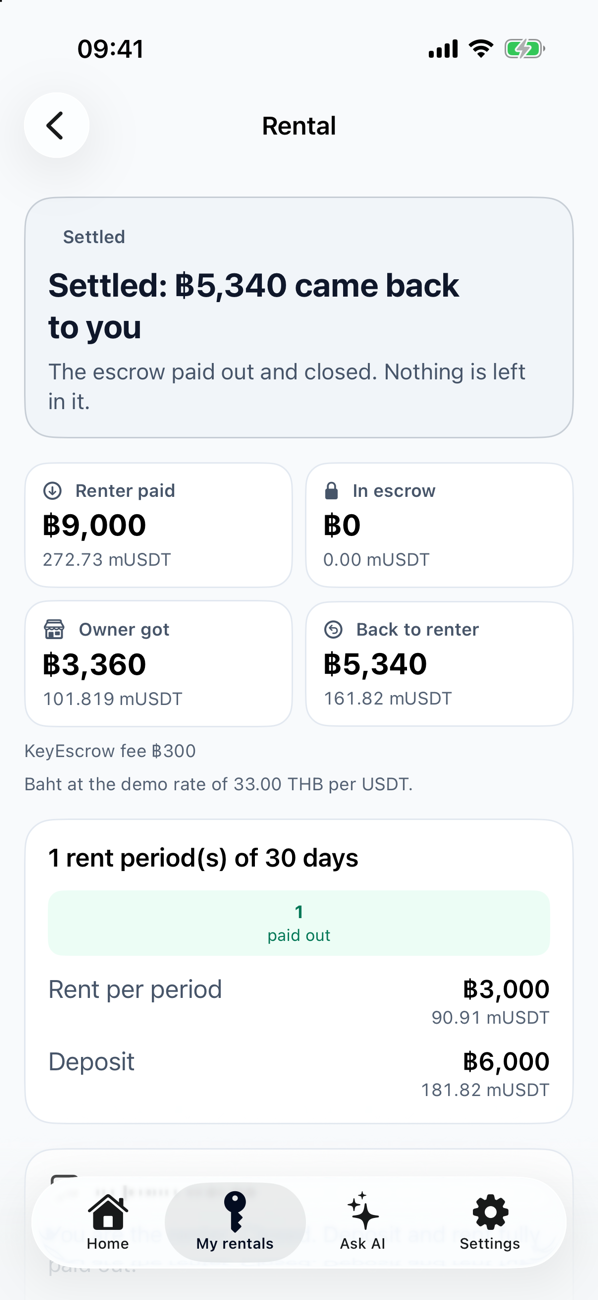
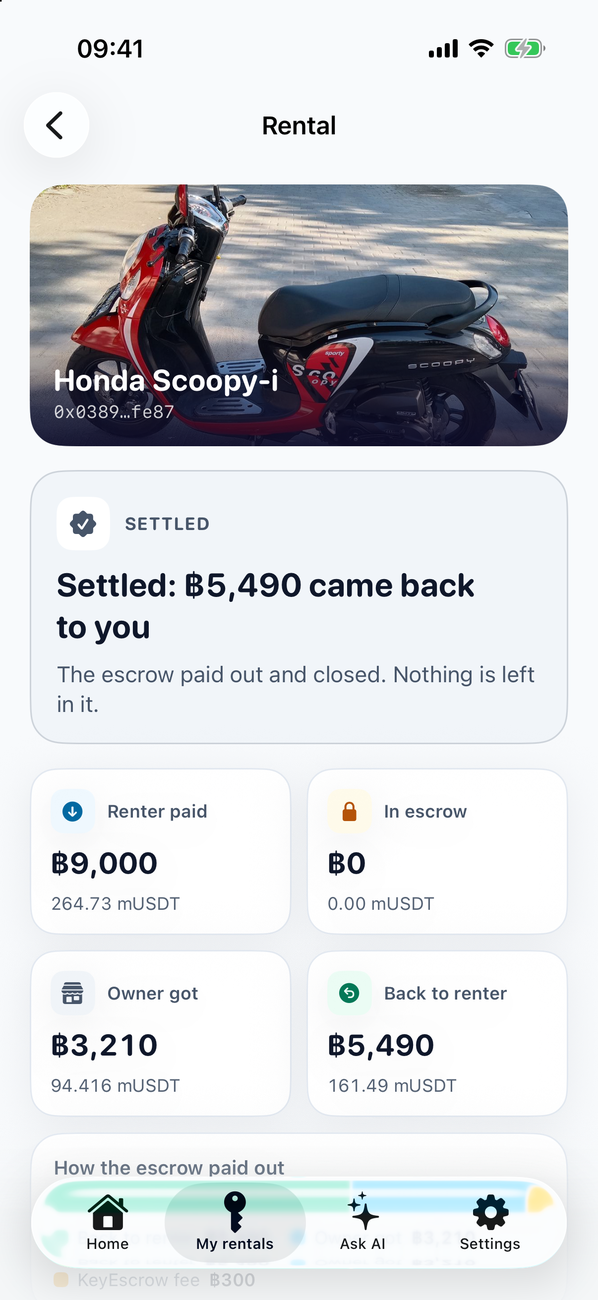
ios: README, REPORT and screenshots for the design pass
README: the new screens per tab, a Photos section (eleven Wikimedia Commons photos, how they are
mapped and credited, what is a stand-in), the launch arguments for screenshots, how to name the
E2E scooter. REPORT: a "Design pass" section (what changed per screen, the two changes that are
not styling, the six escrows the E2E settled on BSC testnet with their payouts, the runs that
failed and why), the review outcome, 38 unit tests, and what changed on the live server today
(chain index behind since 10:07, live price, real Ask AI model, test wallet gas).
Screenshots retaken: 15 PNGs, light + dark, EN + 中文, 1300 px tall; the rental in them is escrow
0x0389ED3e927165653ea482931C0eD17f3BD2fe87 (Honda Scoopy-i).

diff --git a/ios/REPORT.md b/ios/REPORT.md
@@ -40,6 +40,85 @@ MVP 1-5 and stretch 6-7 are in; stretch 8 (WalletConnect) is not.
    `AskAIE2ETests` (passed):** "Create a rental …" → approval card → signed on the phone → escrow
    [`0x11125062…7171`](https://testnet.bscscan.com/address/0x111250620c0DA4b35655584f5E066e75799C7171) created.
 
+## Design pass (26 Nov)
+
+A visual redesign on top of the working app: the flow, the signing and the API calls are the same.
+
+- **Home.** A full-bleed photo of a Thai street at night with a real "motorcycle for rent" sign, the promise
+  written over it behind a night scrim, the wallet as a glass chip. The status bar steps aside while the photo is
+  under it (the photo is night in both themes, the clock would be dark on dark) and comes back with the page. Then
+  a row of destinations (a photo tile each: Bangkok, Chiang Mai, Pai, Phuket) that filters the list, and
+  Airbnb-style cards: square photo, name, price per day, place, "deposit protected by escrow", the deposit, and a
+  *Live on stage* (breathing dot) or *Demo listing* badge.
+- **Listing.** A big photo header that stretches on pull, the photo's author and licence under the title, rent and
+  deposit as two tiles, the escrow promise as a card, a sticky bar with the price and *Rent it*.
+- **Rent flow.** A seven-step stepper with names (Money, Pay, Pickup, Return, AI check, Accept, Settled): done steps
+  are ticked, the current one is amber. One card per step with an icon; the pay step is a small receipt with a
+  total; three photo slots with the ends of each SHA-256; the AI split as a bar plus rows; the transactions on a
+  paper receipt (numbered, sawtooth edge, BscScan links). Settled: a tick that draws itself, "Your ฿… are back",
+  how the escrow paid out (back to you / to the owner / fee). Haptics on each step, on success and on an error.
+- **My rentals and the rental page.** The listing's photo and name where this phone made the rental; status as an
+  icon and a word; money tiles and a split bar; the timeline on a rail with an icon per event.
+- **Ask AI, Settings, wallet.** Same surfaces and type scale; the wallet is a balance card on night indigo;
+  Settings > About has **Photo credits**.
+- **System.** One type scale (`Font.KE`, rounded for headings and amounts), 4-pt spacing, soft shadows in light and
+  hairlines in dark, amber only for emphasis. Checked in light and dark, EN and 中文, and at the
+  *accessibility-large* text size (cards, the sticky bar and the price tiles restack; the stepper names give way to
+  "Step 3 of 7 · Pickup"). Reduce Motion stops the tick, the live dot and the press dip. An iPad shows the phone
+  layout in a centred column.
+
+**Photos.** Eleven real photos from Wikimedia Commons (CC0, CC BY, CC BY-SA; each licence read from the file's own
+page), about 2 MB, bundled and mapped by listing id; the bundled photos are never fetched at runtime.
+[CREDITS.md](CREDITS.md) and the in-app credits list title, author, licence, source and changes. Honest labels: the
+Honda Click photo is an earlier Click (2007), the Scoopy is a Scoopy 110 from Bali, the Fino's page states neither
+place nor model year, the box is not the stage box, the shops in the street photo are not connected to KeyEscrow
+(their phone numbers and a T-shirt print are blurred).
+
+**Two changes that are not styling** (both because KeyEscrow's chain index is behind since 10:07 and was slow at
+times: one request took 16 s at about 11:15; see the notes for the coordinator):
+
+1. `RentFlowModel.refresh()` no longer waits for the chain index. The step always came from the escrow
+   (`get_lease`); now the index is read on the side, one request at a time, so a step shows as soon as the
+   transaction is mined instead of one index request later. The rent-flow E2E takes 73 to 85 s.
+2. When the index has no `Settled` event, the payout is read from the receipt of the settling transaction the phone
+   sent (`RentalStory.settledFlow`, unit-tested), so the settled card and the rental page show the real amounts.
+   Where the app cannot know (a rental settled elsewhere, index behind) it shows "–" and says the history is
+   incomplete, instead of ฿0.
+
+**Verified** with the new UI, live on BSC testnet (Simulator wallet `0xb32B…e49A`): six escrows, each taken from
+the offer to settled by the E2E test:
+
+| Scooter | Escrow | Settled by | Paid in → back to renter / owner / fee (mUSDT) |
+| --- | --- | --- | --- |
+| Honda Click 125i | [`0x57291B20…1C69`](https://testnet.bscscan.com/address/0x57291B20DEedeAC3d94aCc572499d45361431C69) | [`0x3ca5d5c0…dd51e`](https://testnet.bscscan.com/tx/0x3ca5d5c0c2343ab86d3bed6e5f788413a35e883838482b369ba70fa61b4dd51e) | |
+| Yamaha NMAX 155 | [`0x7c023e1A…b473`](https://testnet.bscscan.com/address/0x7c023e1A0C3955F30E28C4C47e4dA45D1ec9b473) | [`0xb8d59af4…9c61`](https://testnet.bscscan.com/tx/0xb8d59af4338bf9bbe5ff0d4d4f3300ed8c8cc03defd538a26c61734f6d7e9c61) | |
+| Honda PCX 160 | [`0x0d4637F1…6c6E`](https://testnet.bscscan.com/address/0x0d4637F13a3735C14F8326c479F7cd3b49696c6E) | [`0x84a426d9…a128`](https://testnet.bscscan.com/tx/0x84a426d9b6cc5a2d9d49edd19fdf8e4e05d6b0624b8fdacb5c8949c8aad6a128) | 436.36 → 258.91 / 162.905 / 14.545 |
+| Yamaha Fino 125 | [`0xC16fB878…78aE`](https://testnet.bscscan.com/address/0xC16fB8789a5622eedB66238E09e8b9B0D34778aE) | [`0x9dd8deeb…abff`](https://testnet.bscscan.com/tx/0x9dd8deeb6df40615e432e4b3608d1c79356f7048e86c91ee53af612b2d4eabff) | |
+| Honda Scoopy-i (in the screenshots) | [`0x0389ED3e…fe87`](https://testnet.bscscan.com/address/0x0389ED3e927165653ea482931C0eD17f3BD2fe87) | [`0xd1ea3bc4…1e3f`](https://testnet.bscscan.com/tx/0xd1ea3bc44fde40db74322c11c894d3ded3cc59222ef570341794e750e76f1e3f) | 264.73 → 161.49 / 94.416 / 8.824 |
+| Honda Click 125i, rented again (last run, final code) | [`0x13431c31…1511`](https://testnet.bscscan.com/address/0x13431c31715794c7C5fd30313a446b67996C1511) | [`0xa5b9322e…f89c`](https://testnet.bscscan.com/tx/0xa5b9322e1b252d7595b5715e9aded9fa572d855584a8bedb044609b96d6cf89c) | 299.99 → 199.99 / 90.00 / 10.00 |
+
+The amounts are read from each settling transaction's `Settled` event. The last two rows were the whole
+`KeyEscrowE2E` scheme in one go, both tests green: the Scoopy-i run (Ask AI approval signed on the phone 21 s, rent
+flow 81 s), and the last Click run (22 s and 85 s) on the final code, which includes the photo-compression commit
+`26fac4a` that landed during this pass. That last run began on an already settled scooter: the test tapped *Rent it
+again* and did a whole new rental.
+
+Not every run was green. None of the failures was a fault of the redesign, and each made a test sturdier:
+
+- The first Ask AI run failed: the server now answers with a real model that takes seconds, and the test tapped
+  *Send* while it was still disabled. The test waits for the button now (and the app keeps what was typed while
+  the assistant is busy, instead of clearing it).
+- One run failed in both tests while the KeyEscrow server could not reach its chain node (HTTP 502, "Could not
+  reach the blockchain node. Try again in a moment."). The Fino's offer had been created; the next run carried the
+  same rental on to settled. The rent test now taps the step again on exactly that message (up to three times).
+- One Ask AI run failed because the real model asked for the rental's term instead of preparing it. The request in
+  the test now states everything, and the test answers once if the model still asks.
+
+**Not done in this pass:** no parallax beyond the stretch on pull; no custom font (the web's Kanit is not bundled,
+headings use SF Rounded); the Mystery Box flow was again not run end to end (it was rented by someone else and
+presenter-locked all day); the step cards were checked live in light + English only (dark and 中文 were checked on
+every screen that opens without sending a transaction).
+
 ## What is demo or stubbed
 
 - **Demo scooters' owner** is a second local test key ("demo shop wallet") that signs `createLease` and `accept`,
@@ -48,8 +127,10 @@ MVP 1-5 and stretch 6-7 are in; stretch 8 (WalletConnect) is not.
   big screen. I tested its drip; I did **not** run `lease`/`fund` on the stage item, because someone else had it
   rented (Active) while I worked and a test rental would block the live stage until the presenter resets it.
   Worth one rehearsal on a phone before the pitch.
-- The live server runs the **demo inspector** and the **demo Ask AI model** and **mock prices** (33 THB/USDT); the
-  app labels each.
+- The live server runs the **demo inspector** and **mock prices** (33 THB/USDT); the app labels each. Ask AI ran
+  the server's demo model in the morning of 26 Nov and a real model later that day (`mock: false`); the app shows a
+  *Demo model* pill whenever the server says it is the demo one.
+- The listing photos are illustrations, not the scooters themselves (see CREDITS.md).
 - Photos carry a timestamp (Simulator sample) but **no location** stamp, and there is no guided five-angle capture or
   blurry-photo rejection (1 to 3 photos, as in the web `/r` flow).
 - **WalletConnect** (stretch 8): not done. No dispute / claim-timeout buttons in the app (Ask AI can prepare them).
@@ -58,14 +139,20 @@ MVP 1-5 and stretch 6-7 are in; stretch 8 (WalletConnect) is not.
 ## Tests
 
 ```
-xcodebuild -scheme KeyEscrow    -destination 'platform=iOS Simulator,name=iPhone 17' test   # 27 unit tests, offline: passed
+xcodebuild -scheme KeyEscrow    -destination 'platform=iOS Simulator,name=iPhone 17' test   # 38 unit tests, offline: passed
 xcodebuild -scheme KeyEscrowE2E -destination 'platform=iOS Simulator,name=iPhone 17' test   # 2 live tests on BSC testnet: passed
 ```
 
 - `SignerTests` (9): Keccak-256, EIP-55, RLP, BigUInt, address from key, two signed EIP-155 transactions and faucet
   calldata equal to viem 2.58.6 output byte for byte, refusal of chains 1, 56, 5611, 31337.
-- `DecodingTests` (9): fixtures from the live endpoints (get_lease, list_leases, explain_status, prepare_fund,
-  stage with the `{"$n"}` bigint codec, chain index + money flow balance, fleet, price, settlement, receipt).
+- `DecodingTests` (10): fixtures from the live endpoints (get_lease, list_leases, explain_status, prepare_fund,
+  stage with the `{"$n"}` bigint codec, chain index + money flow balance, fleet, price, settlement, receipt), and
+  the settled payout decoded from a receipt.
+- `PhotoTests` (6): every credited photo is in the bundle, every photo in use has a credit, licences are from the
+  allowed list with Commons sources, every catalogue listing maps to a photo, destinations match the locations, and
+  the asset folder, the list in code and CREDITS.md name the same photos with the same credit.
+- `CapturedPhotoTests` (4): a full-size noise photo ends under the 200,000-byte upload target, resizing is in
+  pixels, the Simulator sample fits, the "too large" message is not empty.
 - `PolicyTests` (4): approve only to an escrow and capped, the real `prepare_fund` steps pass, `transfer` /
   `transferFrom` / foreign contracts / non-actions refused, faucet only to self, factory only `createLease`.
 - `MoneyTests` (5): mUSDT 6 decimals, whole baht, THB → units same as the server's `thbToUnits`, tBNB, every string
@@ -80,6 +167,16 @@ answers are looked up by hash; a pending shop offer is resumed, not duplicated; 
 its hashes; only one approval signs at a time; a Keychain read error never replaces the key; number conversions from
 the network are range-checked.
 
+An independent review of the design-pass commit (26 Nov) found no blocker: signing, policy, wallet and network code
+untouched, all identifiers and strings in place. It found two display bugs in the new "unknown, not zero" logic, both
+fixed: after *Rent it again* a refresh still in flight could bring the previous rental's payout back (the payout is
+now kept with its escrow and stale answers are dropped), and with a partly filled index the rental page could say
+"Renter paid ฿0" (paid-in now comes from the escrow's own terms when the index has no `Funded` event, and the page
+says the history is incomplete). The smaller findings are fixed too: a 32 pt tap target, text that clipped at the
+largest sizes, the rental page waiting for the index, a status bar that could shift the page on devices without a
+sensor housing, a location in a photo note that its Commons page does not state, and a credits test that now really
+compares the asset folder, the list in code and CREDITS.md.
+
 ## Notes for the coordinator
 
 - **Server issue seen at about 10:07 Bangkok time on 26 Nov:** `GET /api/chain/index?chainId=97` stopped refreshing
@@ -88,6 +185,19 @@ the network are range-checked.
   The app no longer depends on it to move forward (it reads the escrow's own pickup/return hashes), but timelines in
   the app and on the web lag until it recovers. Worth checking before the pitch.
 
+- **Still so at 12:22 on 26 Nov:** the index's last update is 10:06:53 Bangkok time, and it holds no event of any
+  rental made after that (all six in the table above). The app shows their payout from the settling receipt and says
+  the timeline is incomplete; the web timelines and the stage feed will simply miss them until the index recovers.
+- **Other things that changed on the live server during the day** (the app copes, the wording in this report
+  follows): the price API went live at about 11:55 (CoinMarketCap, 34.00 THB/USDT instead of the 33.00 demo rate), so
+  an escrow made at 33.00 now reads about 3 % higher in baht (a ฿9,600 deposit shows as ฿9,890), the same as on the
+  web. Ask AI answers with a real model (`mock: false`) and may ask a question back instead of preparing a change.
+  At about 12:00 the server could not reach its chain node for a minute or two (HTTP 502 from `prepare_fund`, and an
+  assistant run that never finished).
+- **Gas of the Simulator's test wallets** after these runs: guest `0xb32B…e49A` 0.00054 tBNB, demo shop
+  `0x239D…1e34` 0.00033 tBNB. A whole E2E run costs about 0.0001 tBNB between them. Under 0.0003 tBNB the flow asks
+  for test money, and the drip is once per address: then make a new test wallet in Settings, or top the address up
+  from a BNB testnet faucet.
 - No server code was changed. The stage API's origin check passes because a native app sends no `Origin` header.
 - Docs conflict to know about (not changed): `docs/PRODUCT.md` / `ACCEPTANCE.md` still describe the agent wallet
   submitting the verdict on-chain with a 24 h dispute window; the deployed v2 contracts (and this app) follow

diff --git a/ios/README.md b/ios/README.md
@@ -4,17 +4,22 @@ A native SwiftUI app for KeyEscrow: rent a scooter (or the live stage Mystery Bo
 own escrow contract on **BSC testnet**. The phone makes a testnet-only guest wallet, signs every transaction itself,
 and talks to the live KeyEscrow API. Testnet only: the app refuses to sign for any chain but 97.
 
-| Light · EN | Dark · 中文 |
-| --- | --- |
-| ![Home, light, English](screenshots/home-light-en.png) | ![Home, dark, Chinese](screenshots/home-dark-zh.png) |
-
-| Rental page · light · EN | Rental page · dark · 中文 | Rent flow, settled | Ask AI approval, signed |
+| Home · light · EN | Listings · light · EN | Listing · light · EN | Home · dark · 中文 |
 | --- | --- | --- | --- |
-| ![](screenshots/rental-light-en.png) | ![](screenshots/rental-dark-zh.png) | ![](screenshots/flow-settled-light-en.png) | ![](screenshots/ask-approval-light-en.png) |
+| ![Home, light, English](screenshots/home-light-en.png) | ![Listing cards with real photos](screenshots/home-listings-light-en.png) | ![Listing page](screenshots/listing-light-en.png) | ![Home, dark, Chinese](screenshots/home-dark-zh.png) |
+
+| Rent flow, paying in | Rent flow, settled | Rental page · light · EN | Rental timeline · dark · 中文 |
+| --- | --- | --- | --- |
+| ![](screenshots/flow-pay-light-en.png) | ![](screenshots/flow-settled-light-en.png) | ![](screenshots/rental-light-en.png) | ![](screenshots/rental-timeline-dark-zh.png) |
+
+| My rentals · dark · EN | Ask AI approval, signed | Photo credits · light · EN | Settings · light · 中文 |
+| --- | --- | --- | --- |
+| ![](screenshots/rentals-dark-en.png) | ![](screenshots/ask-approval-light-en.png) | ![](screenshots/credits-light-en.png) | ![](screenshots/settings-light-zh.png) |
 
 All screenshots (Simulator, iPhone 17, light + dark, EN + 中文) are in [`screenshots/`](screenshots). The rental shown is
 a real one the E2E test made on BSC testnet: escrow
-[`0x758f…4dEd`](https://testnet.bscscan.com/address/0x758fda4c2c5C1A121106ce91B15348E2a2b84dEd).
+[`0x0389…fe87`](https://testnet.bscscan.com/address/0x0389ED3e927165653ea482931C0eD17f3BD2fe87). The photos are real
+and freely licensed: see [Photos](#photos) and [CREDITS.md](CREDITS.md).
 
 ## Requirements
 
@@ -54,20 +59,44 @@ xcodebuild -scheme KeyEscrowE2E -destination 'platform=iOS Simulator,name=iPhone
 ```
 
 It rents a demo scooter: test money, offer, fund, pickup + return photos on-chain, AI inspection, proposal, the
-demo shop accepts, settled.
+demo shop accepts, settled. Name the scooter with `TEST_RUNNER_E2E_SCOOTER="Honda PCX 160"` in front of the command
+(default: Honda Scoopy-i). A rental left half way is carried on, and a settled one is rented again, so every run is a
+whole rental. A second test signs an Ask AI approval card.
 
 ## What is in the app
 
 | Tab | What it does |
 | --- | --- |
-| **Home** | Airbnb-style list: the live **Mystery Box** (`GET /api/stage/mystery-box`) and the demo scooters (`GET /api/fleet`). Detail: price per day, deposit, "deposit protected by escrow", *Rent it*. |
-| **Rent it** (from a listing) | The `/r` judge flow, native: get test money → the owner offers → *Pay into escrow* (`prepare_fund`) → pickup photos → return photos (SHA-256, `POST /api/evidence`, `prepare_add_evidence`) → AI inspection (`POST /api/settlement`, agent #2921) → propose the split (`prepare_propose_settlement`) → owner accepts → settled. Every transaction links to BscScan as soon as it is mined. Steps are read back from the chain, so leaving and coming back continues where it was. |
-| **My rentals** | `list_leases` for the guest wallet. Rental page: status banner, money strip (renter paid / in escrow / owner got / back to renter, baht + mUSDT), period strip, `explain_status` in plain words, timeline (`/api/chain/index`) with BscScan links. Pull to refresh. |
-| **Ask AI** | Chat against `POST /api/assistant` (Server-Sent Events). Approval cards show the exact unsigned steps; *Approve and sign* signs them with the guest wallet, then resumes the run with the tx hashes. The live server runs the demo model. |
-| **Settings** | Test wallet (address, copy, BscScan, balances, *Get test money*, make a new wallet), demo shop wallet, language **EN / 中文**, appearance **system / light / dark**, about. |
+| **Home** | A full-bleed photo of a Thai street at night (a real "motorcycle for rent" sign in it) with the promise over it, a row of destinations that filters the list, then Airbnb-style cards: the live **Mystery Box** (`GET /api/stage/mystery-box`) and the demo scooters (`GET /api/fleet`), each with a real photo, price per day, place, "deposit protected by escrow" and a *Live on stage* / *Demo listing* badge. Listing page: big photo header, rent and deposit, why the deposit is safe, a sticky *Rent it* bar with the price. |
+| **Rent it** (from a listing) | The `/r` judge flow, native, with a named seven-step stepper: get test money → the owner offers → *Pay into escrow* (`prepare_fund`) → pickup photos → return photos (SHA-256, `POST /api/evidence`, `prepare_add_evidence`) → AI inspection (`POST /api/settlement`, agent #2921) → propose the split (`prepare_propose_settlement`) → owner accepts → settled (a drawn tick, the amount back, how the escrow paid out). Every transaction lands on a paper receipt with its BscScan link as soon as it is mined. Steps are read back from the chain, so leaving and coming back continues where it was. |
+| **My rentals** | `list_leases` for the guest wallet, with the listing's photo where this phone made the rental. Rental page: photo, status banner, money tiles (renter paid / in escrow / owner got / back to renter, baht + mUSDT) and a split bar, period strip, `explain_status` in plain words, a timeline on a rail (`/api/chain/index`) with an icon per event and BscScan links. Pull to refresh. |
+| **Ask AI** | Chat against `POST /api/assistant` (Server-Sent Events). Approval cards show the exact unsigned steps; *Approve and sign* signs them with the guest wallet, then resumes the run with the tx hashes. When the server says it runs its demo model the app shows a *Demo model* pill. |
+| **Settings** | Test wallet (balance card, address, copy, BscScan, *Get test money*, make a new wallet), demo shop wallet, language **EN / 中文**, appearance **system / light / dark**, about, **photo credits**. |
 
-Light and dark follow the web's colour tokens (`web/app/globals.css`); all text uses Dynamic Type text styles; tap
-targets are at least 44 pt.
+Light and dark follow the web's colour tokens (`web/app/globals.css`, night indigo for the hero and the wallet card,
+amber for emphasis only). One type scale (`Font.KE`: rounded for headings and amounts, monospaced for hashes), all of
+it Dynamic Type text styles; layouts restack at the accessibility sizes; tap targets are at least 44 pt. Haptics mark a
+step, a success and an error; the tick, the live dot and the press feedback stay still under Reduce Motion.
+
+## Photos
+
+Every picture in the app is a real photo with a free licence, bundled with the app
+(`KeyEscrow/Resources/Assets.xcassets/Photos`, about 2 MB): one per demo listing, the street at night on Home, a box
+for the Mystery Box and four destination tiles. All eleven come from Wikimedia Commons (CC0, CC BY or CC BY-SA, none
+with a non-commercial or no-derivatives clause); each licence was read from the file's own page. The bundled photos
+are never fetched at runtime: they are mapped by listing id (`PhotoCatalog` in `KeyEscrow/Design/Photos.swift`), and
+the catalogue's own photo URL (a stand-in walkthrough picture) is only the fallback for a listing id the app has no
+photo for (none today).
+
+The photos illustrate the demo listings; they do not show the exact scooters. Where the picture is a stand-in the
+credits say so: the Honda Click is an earlier Click (2007), the Scoopy is a Scoopy 110 photographed in Bali, the
+Fino's page does not state its place or model year, the box is not the one on the stage. In the street photo the phone numbers on the shop signs and the print on a T-shirt are
+blurred; the shops in it are not connected to KeyEscrow.
+
+Title, author, licence, source and what was changed for each photo: [CREDITS.md](CREDITS.md), and in the app under
+Settings > About > Photo credits. To add or replace one: put the JPEG in an image set under `Assets.xcassets/Photos`,
+map and credit it in `PhotoCatalog`, add the row to CREDITS.md (`PhotoTests` fails when the asset folder, the list in
+code and CREDITS.md do not name the same photos with the same credit).
 
 ## What is real on-chain vs demo
 
@@ -78,6 +107,7 @@ targets are at least 44 pt.
 | Photo fingerprints (`addEvidence`), the proposal with the inspector's `reportHash`, the settlement. | **Mystery Box owner** is the KeyEscrow server (`/api/stage` `lease`); the presenter accepts on the big screen. |
 | Test money: `/api/stage` drip (tBNB + mUSDT from the team's funder, once per address) and `MockUSDT.faucet` signed by the guest wallet. | AI inspector on the live server is the deterministic demo inspector (no vision key there); the app says so. Baht use the demo rate (33 THB/USDT) when the price API is in mock mode, and says so. |
 | | Simulator has no camera: *Add a sample photo* makes a time-stamped generated picture. On an iPhone it is the live camera only (no photo library, by design). |
+| | The listing photos are illustrations (real, freely licensed photos of the same model line, credited), not the scooters themselves. |
 
 ## Safety
 
@@ -91,6 +121,8 @@ targets are at least 44 pt.
   `transfer`, no other contract.
 - A send whose answer got lost is looked up by its hash before retrying, and a pending shop offer is finished rather
   than created twice. A Keychain read error never replaces the stored key.
+- The flow's step comes from the escrow itself (`get_lease`), never from KeyEscrow's chain index: the index only feeds
+  the timeline, and when it is behind the settled payout is read from the settling transaction's receipt.
 - **Keys** are made on the phone (`SecRandomCopyBytes`), stored in the Keychain with
   `kSecAttrAccessibleAfterFirstUnlockThisDeviceOnly` (no iCloud sync, not in backups) and never leave it. The server
   only ever sees addresses.
@@ -108,14 +140,18 @@ ios/
     Network/                  APIClient (/api/v1, stage, fleet, price, chain index, settlement, evidence), RPC, models
     Features/Home|Rent|Rentals|AskAI|Settings
     Support/                  AppSettings, L10n (EN + 中文 side by side), Money (baht / mUSDT / tBNB)
-    Design/                   colour tokens, cards, pills, buttons
-  KeyEscrowTests/             signer vectors (viem), calldata policy, API decoding (live fixtures), money + i18n
-  KeyEscrowE2E/               live rent-a-scooter run on BSC testnet
+    Design/                   colour tokens, type scale, cards, buttons, stepper parts; Photos.swift (photos + credits)
+    Resources/Assets.xcassets icon, launch colour, Photos/ (the eleven bundled photos)
+  KeyEscrowTests/             signer vectors (viem), calldata policy, API decoding (live fixtures), money + i18n, photos
+  KeyEscrowE2E/               live rent-a-scooter run and Ask AI approval on BSC testnet
+  CREDITS.md                  every photo: title, author, licence, source, what was changed
 ```
 
 Dependency: [`21-DOT-DEV/swift-secp256k1`](https://github.com/21-DOT-DEV/swift-secp256k1) 0.25.1 (`P256K`,
 libsecp256k1: RFC 6979 + low-s, recoverable signatures). Keccak, RLP and the transaction encoding are in this repo
 and checked byte for byte against viem's `signTransaction` (vectors in `KeyEscrowTests/Fixtures/README.md`).
 
-Screenshots: `-lang en|zh`, `-appearance light|dark`, `-tab 0..3`, `-listing <id>`, `-flow <id>` and `-lease <escrow>`
-launch arguments open a given state (`xcrun simctl launch booted org.keyescrow.ios -lang zh -appearance dark`).
+Screenshots: `-lang en|zh`, `-appearance light|dark`, `-tab 0..3`, `-listing <id>`, `-flow <id>`, `-lease <escrow>`,
+`-scroll listings` (Home) or `-scroll timeline` (rental page) and `-screen wallet|credits` (Settings) launch arguments
+open a given state (`xcrun simctl launch booted org.keyescrow.ios -lang zh -appearance dark`). The E2E test keeps a
+screenshot of every flow step in its result bundle (`xcrun xcresulttool export attachments`).
